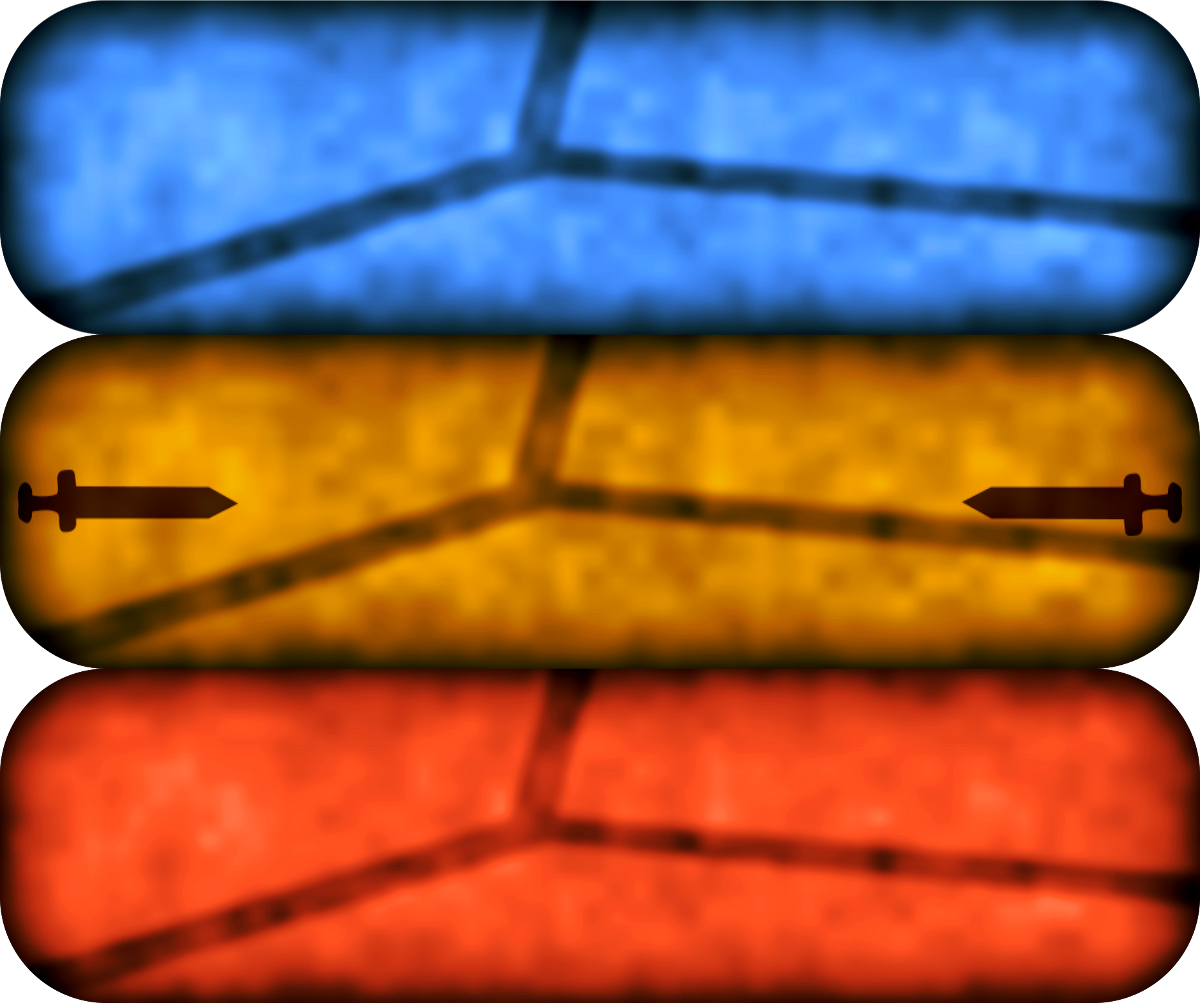
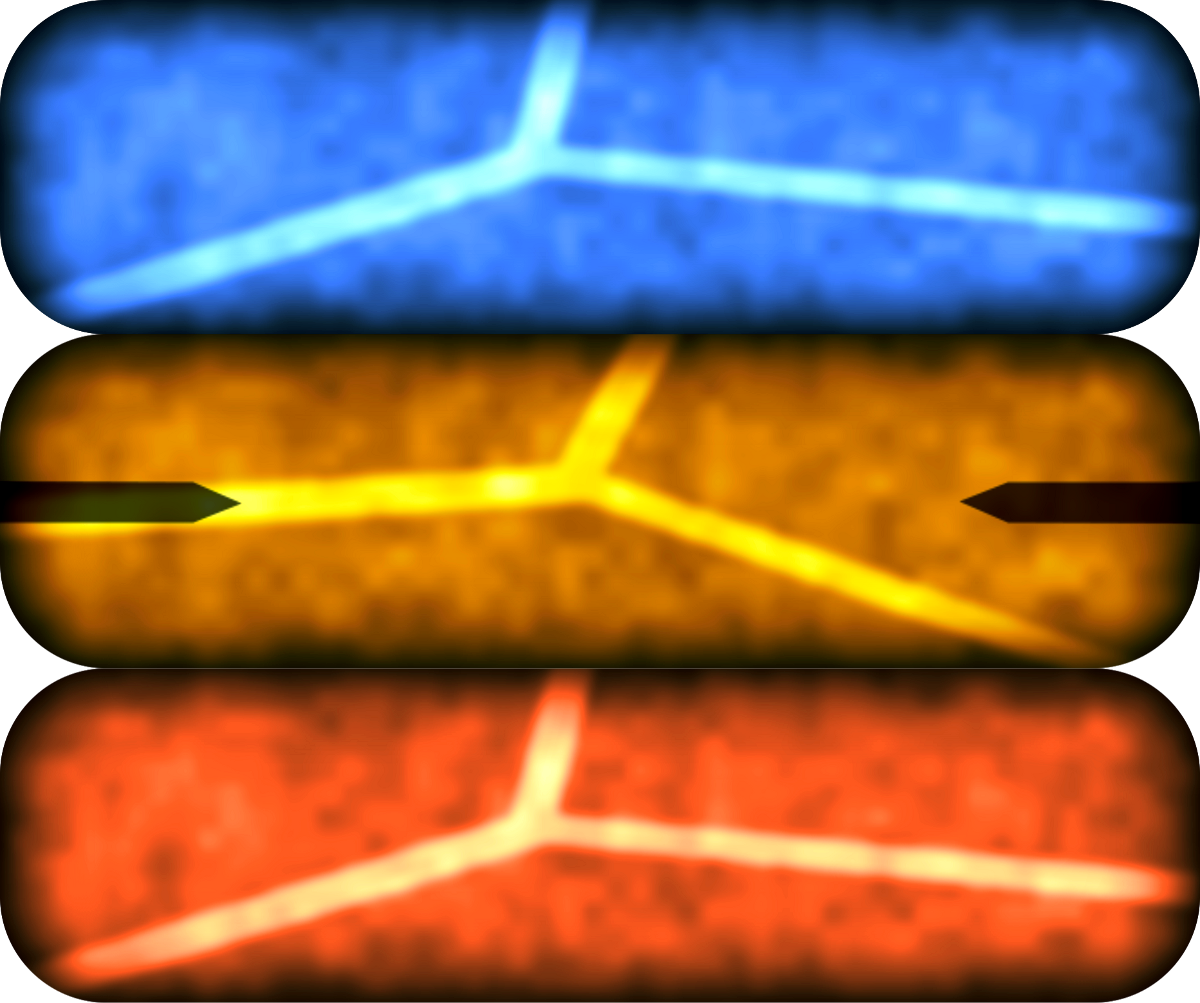
Changed button texture to a better readable one.

diff --git a/src/game/ui/element/button/Button.java b/src/game/ui/element/button/Button.java
@@ -34,9 +34,9 @@ public abstract class Button extends UIElement {
 
     @Override
 	public void draw(Graphics2D g) {
-        if (!super.isMouseOver) spriteY = 0;
-        if (super.hasFocus || super.isMouseOver) spriteY = backgroundImage.getHeight() / 3;
-        if (super.isMouseOver && super.isMouseDown) spriteY = backgroundImage.getHeight() / 3 * 2;
+        if (!super.isMouseOver) spriteY = 0;    //default: 0
+        if (super.hasFocus || super.isMouseOver) spriteY = backgroundImage.getHeight() / 3; //default: backgroundImage.getHeight() / 3
+        if (super.isMouseOver && super.isMouseDown) spriteY = backgroundImage.getHeight() / 3 * 2; //default: backgroundImage.getHeight() / 3 * 2
 
 		g.drawImage(backgroundImage, x, y, width + x, height + y, 0, spriteY, backgroundImage.getWidth(), backgroundImage.getHeight() / 3 + spriteY, null);
 	}
